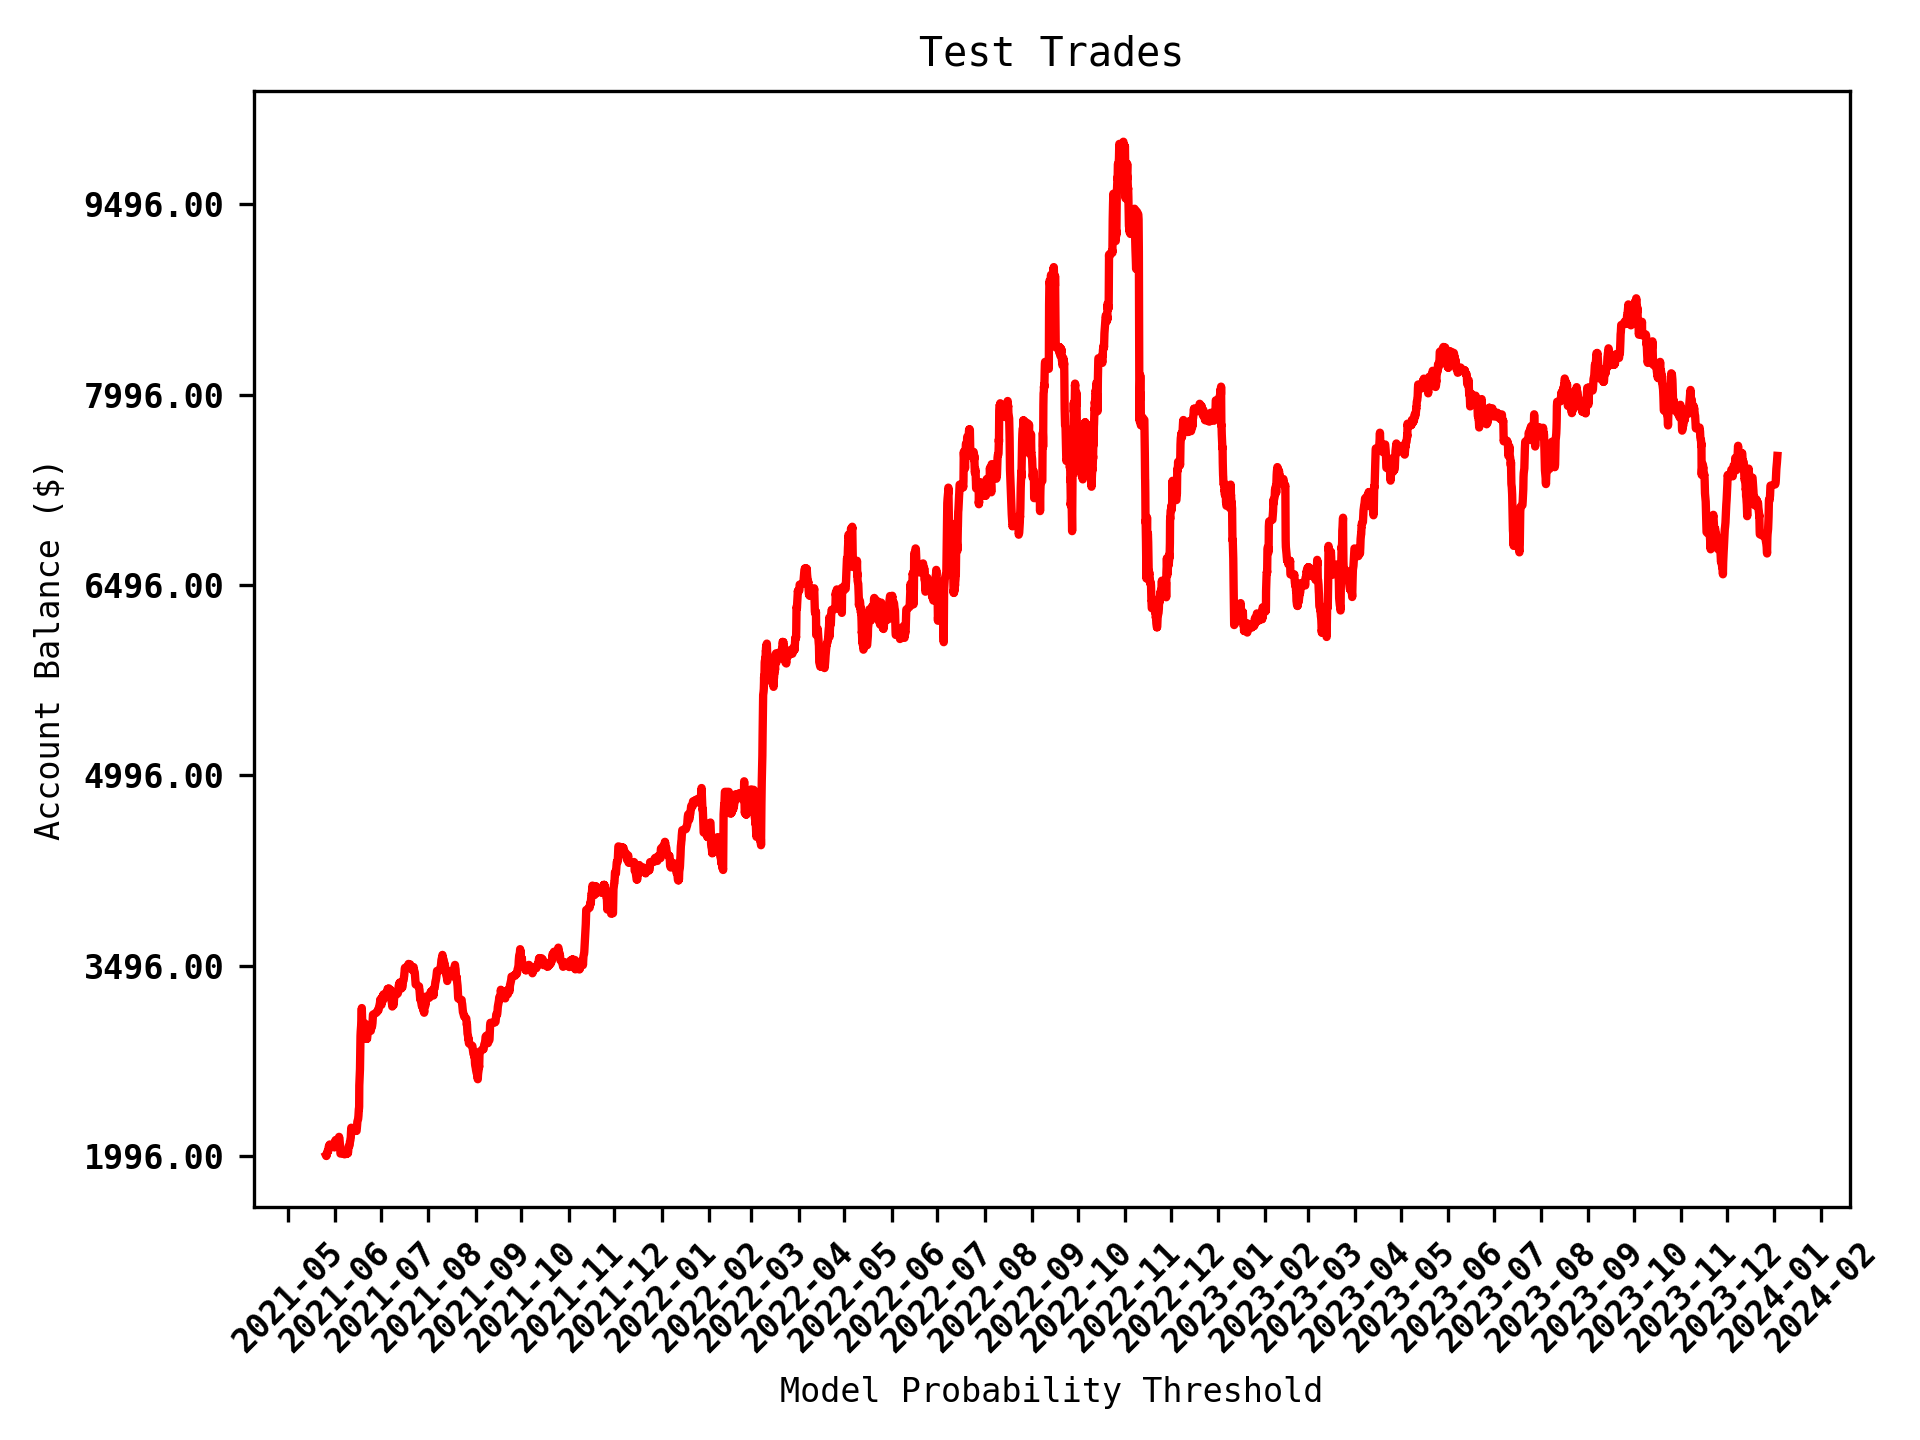
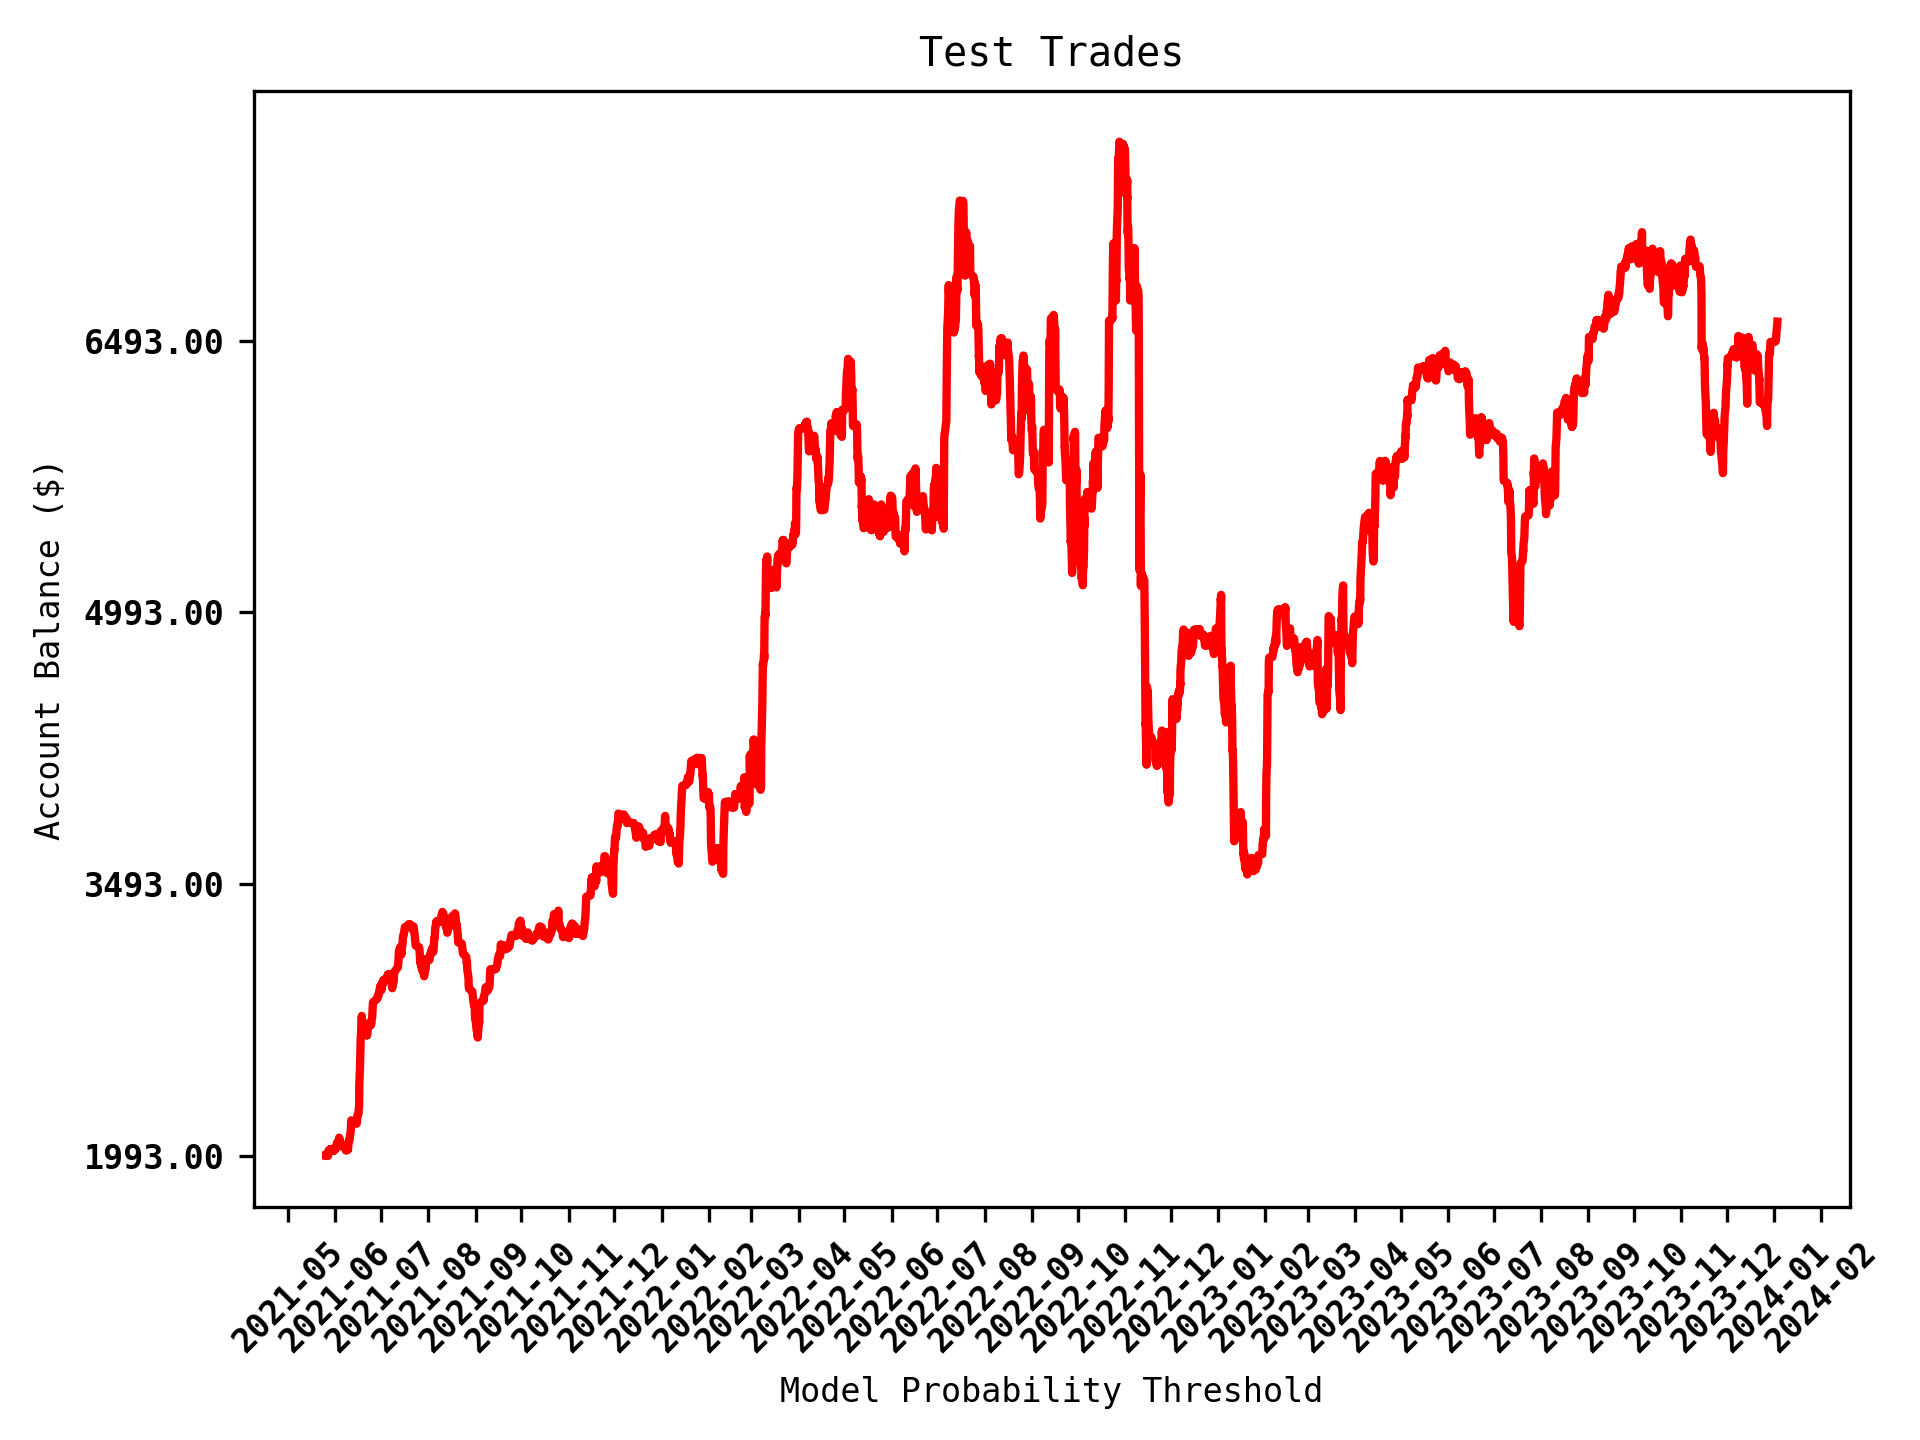
Model 61 -1

diff --git a/src/assets/forex/train_matrix/trade_simulator.py b/src/assets/forex/train_matrix/trade_simulator.py
@@ -100,7 +100,7 @@ def trade_append(df, initial_balance, leverage, base_lot_size):
 
 # Main logic
 if __name__ == "__main__":
-    df = pd.read_csv('testfiles/test_result_EURUSD_0916-60.csv')
+    df = pd.read_csv('testfiles/test_result_EURUSD_0916-61.csv')
 
     # Set initial parameters
     initial_balance = 2000

diff --git a/src/assets/forex/train_matrix/oop_train.py b/src/assets/forex/train_matrix/oop_train.py
@@ -253,7 +253,7 @@ def train_data(df, asset,lookback,n_components,training_cols,model_num,learning_
 
 if __name__ == "__main__":
     #hyperparameter for experiment and model creation
-    model_num ='EURUSD_0916-60'
+    model_num ='EURUSD_0916-61'
     asset = "EURUSD"
     dollar_amount =10000
     lookback = 10
